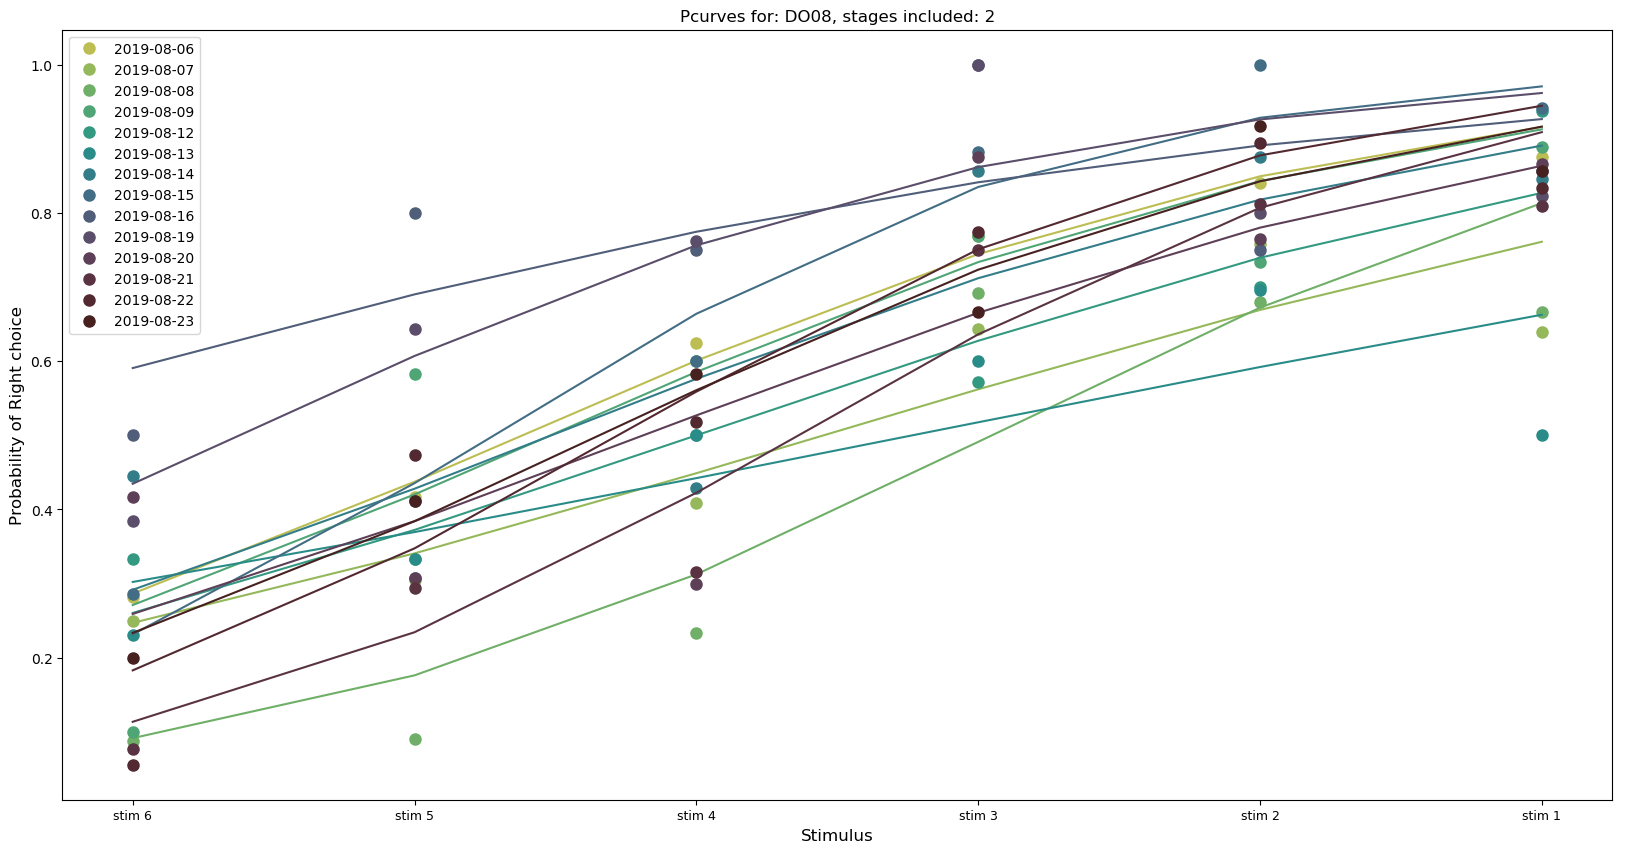
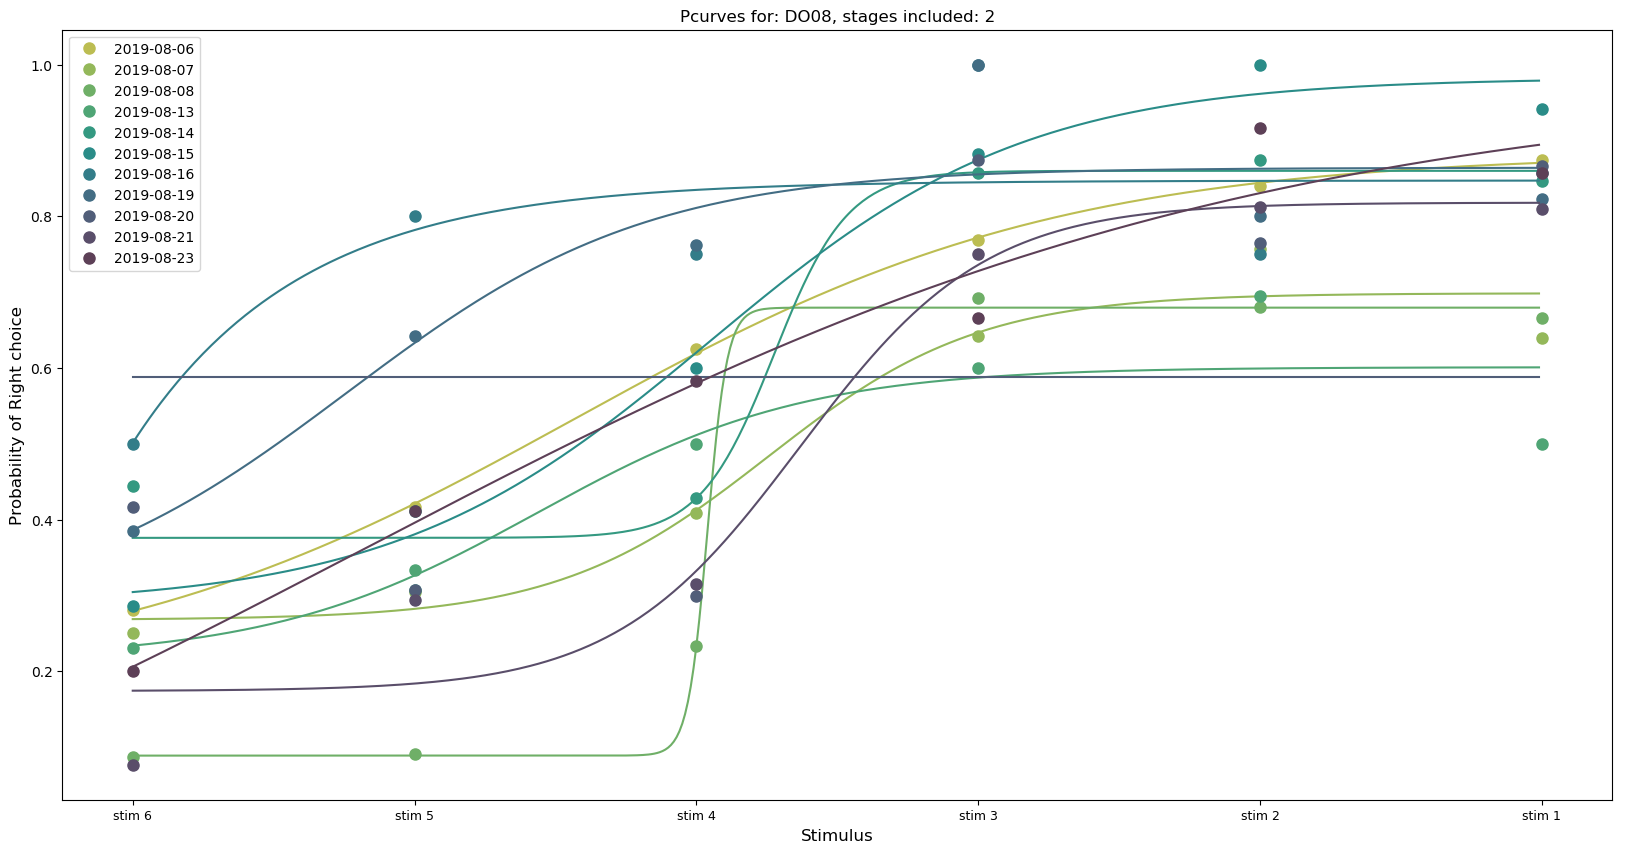
work on logistic regression, updated smoothness of curves

diff --git a/SC_plotting.py b/SC_plotting.py
@@ -15,18 +15,22 @@ plt.rcParams['text.color'] = 'black'
 pickle_in = open("Rot3_data\\SC_full_df.pkl","rb")
 Animal_df = pickle.load(pickle_in)
 
+
 # DEFINED ERROR CLASSES
 class Error(Exception):
     # Error is derived class for Exception, but
     # Base class for exceptions in this module
     pass
 
+
 class StageError(Error):
     """raised selecting for specific stage which does not correspond to given session"""
     pass
 
+
 class PCurveError(Error):
     pass
+
 
 class SessionCheckError(Error):
     pass
@@ -294,6 +298,15 @@ def run_param_plots():
             plt.close()
 
 
+def run_slope_plots():
+    for animal in animals:
+        fig_name = 'sc_' + animal + '_slopes'
+        plot = param_days(sc, animal, date_list, stage=2, param='B')
+        plt.show()
+        plt.savefig('Rot3_data\\SoundCat\\' + fig_name + '.png', bbox_inches='tight')
+        plt.close()
+
+
 # FUNCTION TO CHECK SESSION
 def check(df, animal_id, date):
     # could maybe modify this a little to be shorter, but it works atm
@@ -311,7 +324,7 @@ def check(df, animal_id, date):
 
 
 # PLOTTING PROBABILITIES AND FITTING P-CURVES
-def cal_prob(df, animal_id, date):
+def cal_prob(df, animal_id, date, ret_hist=False):
     # can definitely bring this baby down in size
     single_animal = df.xs(animal_id, level='animal', axis=1).copy()
     session = single_animal.loc[date]
@@ -329,6 +342,8 @@ def cal_prob(df, animal_id, date):
     history = pd.concat(dfs)
     history = history.T
 
+    if ret_hist is True:
+        return history
     # stage condition
     if 6 in history['stim'].values:
         # print('detected 6 stimuli, calculating probabilities..')
@@ -496,6 +511,7 @@ def plot_pcurve(big_df, animal_id, date, invert=False, col1='#810f7c', col2='#04
         stim = np.array([0, 1, 2, 3, 4, 5])  # arbitrary x-axis needs to be same for plotting and p-fit
         stim_list = ('stim 6', 'stim 5', 'stim 4', 'stim 3', 'stim 2', 'stim 1')
         stim_no = 6
+        stim2 = np.arange(0, 5, 0.01)
         if stage == 1:  # if only want stage 1 then abort
             print('Stage 2 detected, aborted plotting')
             raise StageError
@@ -504,6 +520,7 @@ def plot_pcurve(big_df, animal_id, date, invert=False, col1='#810f7c', col2='#04
         stim = np.array([0, 1, 2, 3])
         stim_list = ('stim 4', 'stim 3', 'stim 2', 'stim 1')
         stim_no = 4
+        stim2 = np.arange(0, 3, 0.01)
         if stage == 2:  # if only want stage 2 then abort
             print('Stage 1 detected, aborted plotting')
             raise StageError
@@ -512,8 +529,7 @@ def plot_pcurve(big_df, animal_id, date, invert=False, col1='#810f7c', col2='#04
         par, mcov = curve_fit(pf, stim, right_prob)  # fit p curve to data
         if ret_param is True:  # if condition true just return the slope
             return par
-        plt.plot(stim, pf(stim, par[0], par[1], par[2], par[3]), color=col2)  # plot the p-curve
-        print('alpha is: ' + str(par[0]))
+        plt.plot(stim2, pf(stim2, par[0], par[1], par[2], par[3]), color=col2)  # plot the p-curve
     except:
         raise PCurveError
 
@@ -645,15 +661,13 @@ def param_days(big_df, animal_id, date_list, stage='ALL', param='B'):
     return alp_plot
 
 
-
 # Create the cleaned up SC dataframe, shouldn't need to select animals
 animals = ['AA01', 'AA03', 'AA05', 'AA07', 'DO04', 'DO08', 'SC04', 'SC05',
-           'VP01', 'VP07', 'VP08']
+           'VP01', 'VP07', 'VP08']  # AA03 and SC04 don't do any trials
 sc = clean_up_df(Animal_df)
 date_list = sc.index.values
 
 # good example animal and day
 #plot_pcurve(sc, 'VP08', '2019-08-06')
-#df = cal_prob(sc, 'VP08', '2019-08-06')
-#plt.close()
-#plot_pcurve(sc, 'VP08', date_list[0])
+
+cal_prob(sc, 'VP08', '2019-08-06')

diff --git a/SC_modelling.py b/SC_modelling.py
@@ -1,0 +1,103 @@
+import pandas as pd
+import numpy as np
+import pickle
+import matplotlib.pyplot as plt
+from scipy.optimize import curve_fit
+from SC_plotting import clean_up_df, cal_prob
+
+import seaborn as sns
+from sklearn.model_selection import train_test_split
+from sklearn.linear_model import LogisticRegression
+from sklearn import metrics
+import warnings
+warnings.filterwarnings('ignore')
+
+pickle_in = open("Rot3_data\\SC_full_df.pkl","rb")
+Animal_df = pickle.load(pickle_in)
+sc = clean_up_df(Animal_df, ['DO04'])  # create the cleaned up dataframe
+# do not want to include '2019-08-21' just fyi, should remove that (data is weird).
+
+date = '2019-08-23'
+# create trial data set
+def trial_df(df, date):
+    session = df.loc[date]
+    # make dataframe of raw trials
+    history = cal_prob(df, 'DO04', date, ret_hist=True)
+
+    # if it was not a tm or vio add it to dataset
+    trial_index = 1
+    tri_index_list = []
+    trial_dict = {}
+
+    #trial[0] is side, trial[1] is stim, trial[2] is hit
+    for tri_number in history.index._values[1:]:
+        prev_trial = history.ix[(tri_number - 1)]
+        trial = history.ix[tri_number]
+        session = 'S1_'  #
+        if np.isnan(trial[2]) == False:
+            #tri_index_list.append(trial_index)
+            if np.isnan(prev_trial[2]) == False:
+                key = str(session + str(trial_index))
+                trial_dict[key] = [trial[2], trial[1], prev_trial[2], prev_trial[1]]
+                print(str(tri_index_list))
+        trial_index += 1
+
+    #probably have to figure out how to deal with if the previous trial was a violation or timeout
+        # make the nan values
+
+    # create dict
+    data_df = pd.DataFrame.from_dict(trial_dict,
+                                     orient='index',
+                                     columns=['Ct_Hit', 'Ct_Stim', 'Pt_Hit', 'Pt_Stim'])
+    return data_df
+
+
+# df['Ct_Hit'].value_counts()
+# df.isnull().sum()
+# y = df['Ct_Hit']
+# x = df[['Ct_Stim', 'Pt_Hit', 'Pt_Stim']]
+#df = df.drop(columns=['Pt_Stim'])
+
+#x_train,x_test,y_train,y_test=train_test_split(x,y,test_size=0.20,random_state=0)
+
+def drop_x(df, ct_stim=False, pt_hit=False, pt_stim = False):
+    x = df[['Ct_Stim', 'Pt_Hit', 'Pt_Stim']]
+    if ct_stim is True:
+        df = df.drop(columns=['Ct_Stim'])
+        x = df[['Pt_Hit', 'Pt_Stim']]
+    if pt_stim is True:
+        df = df.drop(columns=['Pt_Stim'])
+        x = df[['Ct_Stim', 'Pt_Hit']]
+    if pt_hit is True:
+        df = df.drop(columns=['Pt_Hit'])
+        x = df[['Ct_Stim', 'Pt_Stim']]
+    #else:
+    #    x = df[['Ct_Stim', 'Pt_Hit', 'Pt_Stim']]
+
+    return x
+
+def cnf_heatmap(cnf_matrix):
+    fig, ax = plt.subplots()
+    sns.heatmap(pd.DataFrame(cnf_matrix), annot=True, cmap="viridis", fmt='g')
+    ax.xaxis.set_label_position("top")
+    plt.title('Confusion matrix', y=1.1)
+    plt.ylabel('Actual label')
+    plt.xlabel('Predicted label')
+
+    return None
+
+def train_data(x,y):
+    x_train, x_test, y_train, y_test = train_test_split(x, y, test_size=0.20, random_state=0)
+    logreg = LogisticRegression()
+    logreg.fit(x_train, y_train)  # look up what these values really mean
+    y_pred = logreg.predict(x_test)
+    cnf_matrix = metrics.confusion_matrix(y_test, y_pred)
+    print("Accuracy:", metrics.accuracy_score(y_test, y_pred))
+    print("Precision:", metrics.precision_score(y_test, y_pred))
+    print("Recall:", metrics.recall_score(y_test, y_pred))
+    return cnf_matrix
+
+
+date = '2019-08-06'
+df = trial_df(sc, date)
+y = df['Ct_Hit']

diff --git a/Plotting.py b/Plotting.py
@@ -9,7 +9,7 @@ plt.rcParams['axes.facecolor'] = 'FFFFFF'
 plt.rcParams['text.color'] = 'black'
 
 # Load in file
-pickle_in = open("Rot3_data\\Rat_full2_df.pkl","rb")
+pickle_in = open("Rot3_data\\Rat_full_df.pkl","rb")
 Animal_df = pickle.load(pickle_in)
 
 
